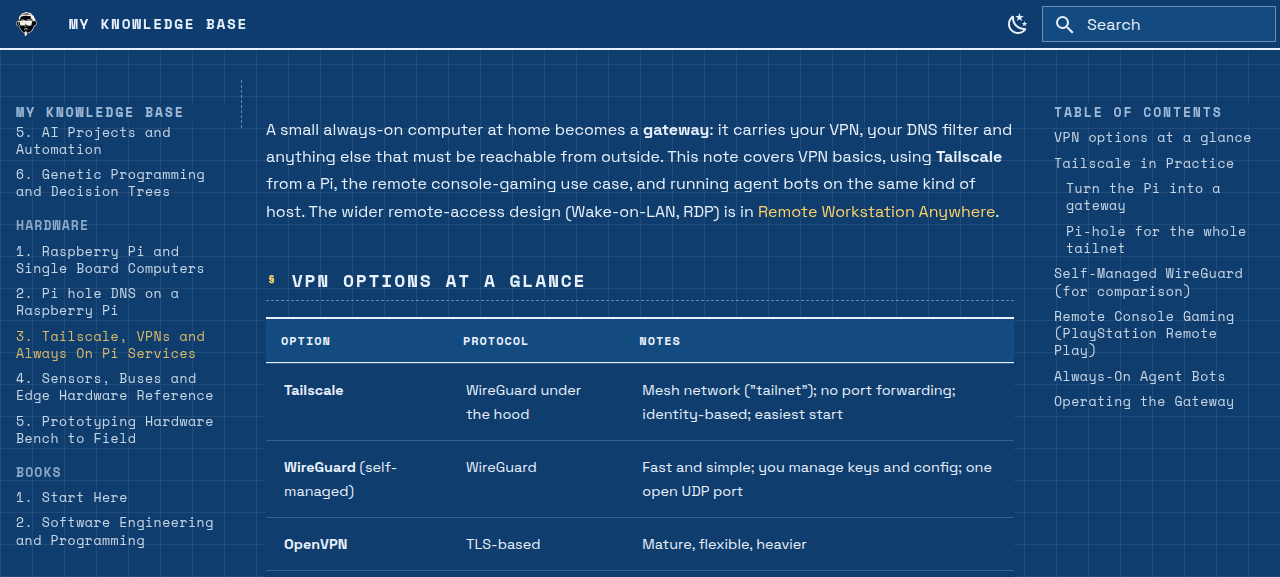
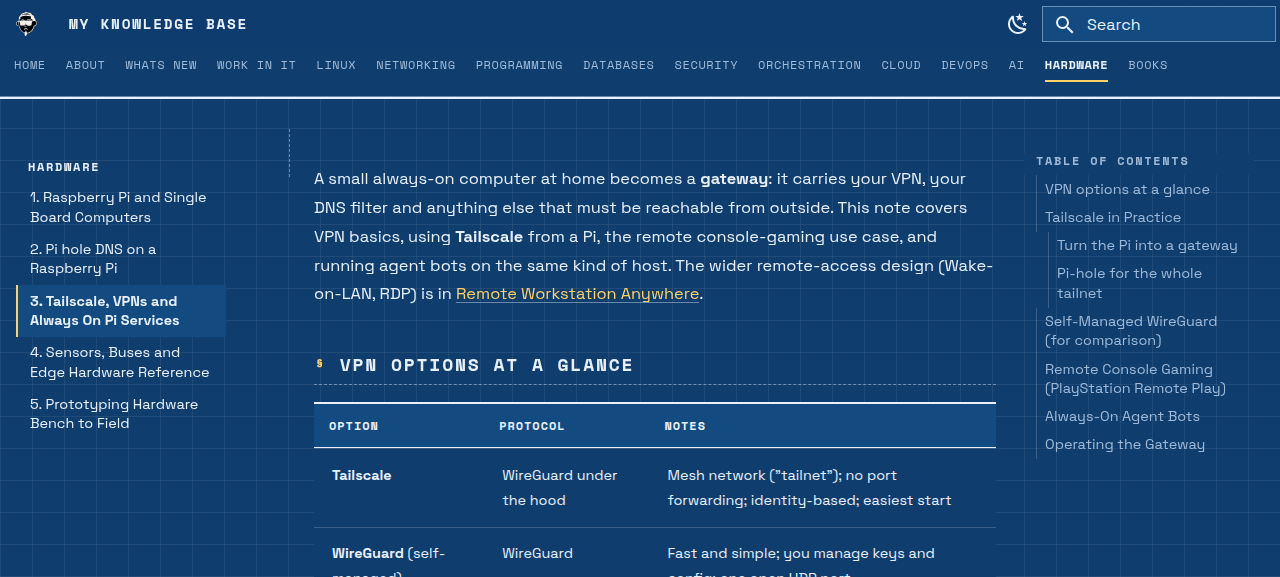
Readable sidebar and TOC, styled tab bar, focus and reduced-motion support

diff --git a/docs/assets/css/blueprint.css b/docs/assets/css/blueprint.css
@@ -58,18 +58,47 @@ body {
 .md-search__input, .md-search__input::placeholder { color: var(--bp-ink); }
 .md-grid { max-width: 80rem; }
 
-/* Left rail: the numbered folders read like drawing-sheet index entries */
+/* Navigation: readable sans for page titles, mono only for small section labels */
+.md-sidebar { width: 14.5rem; }
 .md-sidebar--primary { border-right: 1px dashed var(--bp-rule2); }
-.md-nav { font-family: "Space Mono", monospace; font-size: .66rem; letter-spacing: .04em; }
-.md-nav__title { font-weight: 700; text-transform: uppercase; letter-spacing: .14em; color: var(--bp-muted); box-shadow: none; }
-.md-nav__item .md-nav__link { color: var(--bp-ink); opacity: .85; }
-.md-nav__link--active, .md-nav__link:hover { color: var(--bp-red) !important; opacity: 1; }
-.md-nav--primary > .md-nav__list > .md-nav__item > .md-nav__link,
-.md-nav--primary > .md-nav__list > .md-nav__item > label.md-nav__link { text-transform: uppercase; font-weight: 700; letter-spacing: .08em; }
+.md-sidebar--secondary { width: 13rem; }
+.md-nav { font-family: "Space Grotesk", system-ui, sans-serif; font-size: .72rem; line-height: 1.35; letter-spacing: 0; }
+.md-nav__title {
+  font-family: "Space Mono", monospace; font-size: .6rem; font-weight: 700;
+  text-transform: uppercase; letter-spacing: .14em; color: var(--bp-muted); box-shadow: none; padding-bottom: .3rem;
+}
+.md-nav__list { margin: 0; }
+.md-nav__item .md-nav__link {
+  color: var(--bp-ink); opacity: 1; padding: .32rem .5rem .32rem .6rem; margin: 0;
+  border-left: 2px solid transparent; text-overflow: clip; white-space: normal; overflow-wrap: anywhere;
+}
+.md-nav__item .md-nav__link:hover { background: var(--bp-panel); color: var(--bp-ink) !important; border-left-color: var(--bp-rule2); }
+.md-nav__item .md-nav__link--active, .md-nav__item--active > .md-nav__link {
+  color: var(--bp-ink) !important; font-weight: 700; background: var(--bp-panel); border-left-color: var(--bp-red);
+}
+/* top-level sections: mono small caps so they read as group headings, with space above */
+.md-nav--primary > .md-nav__list > .md-nav__item--section { margin-top: 1rem; }
+.md-nav--primary > .md-nav__list > .md-nav__item--section > .md-nav__link {
+  font-family: "Space Mono", monospace; font-size: .6rem; text-transform: uppercase; letter-spacing: .14em;
+  font-weight: 700; color: var(--bp-muted); border-left: 0; padding-left: .6rem; background: none;
+}
+.md-nav--primary .md-nav__item--nested .md-nav__item { padding-left: .4rem; }
+/* table of contents on the right */
+.md-sidebar--secondary .md-nav__link { color: var(--bp-muted); padding: .22rem .4rem; border-left: 1px solid var(--bp-rule); }
+.md-sidebar--secondary .md-nav__link:hover { color: var(--bp-ink) !important; background: none; border-left-color: var(--bp-red); }
+.md-sidebar--secondary .md-nav__link--active { color: var(--bp-ink) !important; font-weight: 700; background: none; border-left: 2px solid var(--bp-red); }
 .md-sidebar--secondary .md-nav__title { color: var(--bp-muted); }
+.md-sidebar__scrollwrap { scrollbar-width: thin; scrollbar-color: var(--bp-rule2) transparent; }
+
+/* Accessibility */
+:focus-visible { outline: 2px solid var(--bp-red); outline-offset: 2px; }
+.md-typeset a { text-decoration: underline; text-decoration-color: var(--bp-rule2); text-underline-offset: .18em; }
+.md-typeset a:hover { text-decoration-color: currentColor; }
+@media (prefers-reduced-motion: reduce) { * { transition: none !important; animation: none !important; } }
 
 /* Content */
-.md-typeset { font-size: .8rem; line-height: 1.7; color: var(--bp-ink); }
+.md-typeset { font-size: .82rem; line-height: 1.75; color: var(--bp-ink); }
+.md-content__inner { max-width: 46rem; }
 .md-typeset h1 { font-weight: 700; letter-spacing: -.03em; color: var(--bp-ink); }
 .md-typeset h2 {
   font-family: "Space Mono", monospace; text-transform: uppercase; letter-spacing: .1em;
@@ -79,7 +108,6 @@ body {
 .md-typeset h2::before { content: "§ "; color: var(--bp-red); }
 .md-typeset h3 { font-weight: 700; letter-spacing: -.01em; }
 .md-typeset hr { border-bottom: 1px dashed var(--bp-rule2); }
-.md-typeset a:hover { text-decoration: underline; }
 .md-typeset code { font-family: "Space Mono", monospace; border: 1px solid var(--bp-rule); }
 .md-typeset pre > code { border: 0; }
 .md-typeset .highlight, .md-typeset pre { border: 1px solid var(--bp-ink); }
@@ -144,3 +172,16 @@ body {
 .md-footer-meta { background: transparent; }
 .md-copyright { font-family: "Space Mono", monospace; font-size: .6rem; text-transform: uppercase; letter-spacing: .1em; }
 ::selection { background: var(--bp-red); color: var(--bp-paper); }
+
+/* Top tab bar: sections as drawing-sheet tabs */
+.md-tabs { background: color-mix(in srgb, var(--bp-paper) 96%, transparent); color: var(--bp-ink); border-bottom: 1px solid var(--bp-rule2); }
+.md-tabs__list { contain: none; }
+.md-tabs__link {
+  font-family: "Space Mono", monospace; font-size: .6rem; text-transform: uppercase; letter-spacing: .1em;
+  color: var(--bp-muted); opacity: 1; margin-top: .45rem; padding-bottom: .35rem; border-bottom: 2px solid transparent;
+}
+.md-tabs__link:hover { color: var(--bp-ink); }
+.md-tabs__item--active .md-tabs__link { color: var(--bp-ink); font-weight: 700; border-bottom-color: var(--bp-red); }
+.md-tabs__link { letter-spacing: .05em; }
+.md-tabs__item { padding-left: .5rem; padding-right: .5rem; }
+.md-tabs .md-grid { max-width: none; }

diff --git a/README.md b/README.md
@@ -30,13 +30,15 @@ theme:
         icon: material/weather-sunny
         name: Switch to dark mode
   features:
-    - navigation.sections   # left rail reads like a drawing index
+    - navigation.tabs        # sections as top tabs
+    - navigation.tabs.sticky
+    - navigation.sections    # left rail reads like a drawing index
 
 extra_css:
   - assets/css/blueprint.css
 ```
 
-Tip: number your folders and files (`01. Intro.md`) and the left rail becomes a sheet index. Drop `navigation.tabs` to keep everything in the rail.
+Tip: number your folders and files (`01. Intro.md`) and the left rail becomes a sheet index.
 
 ## Customise
 
